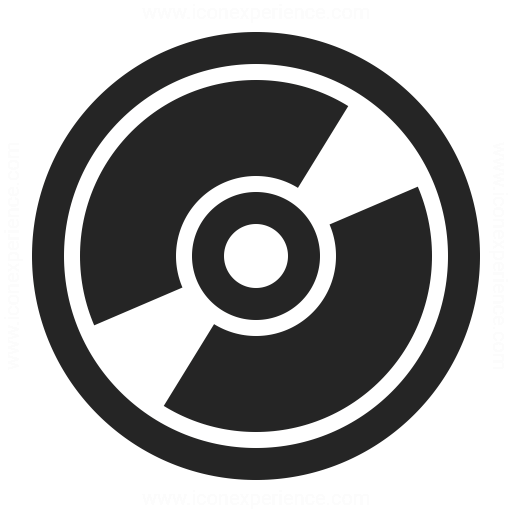
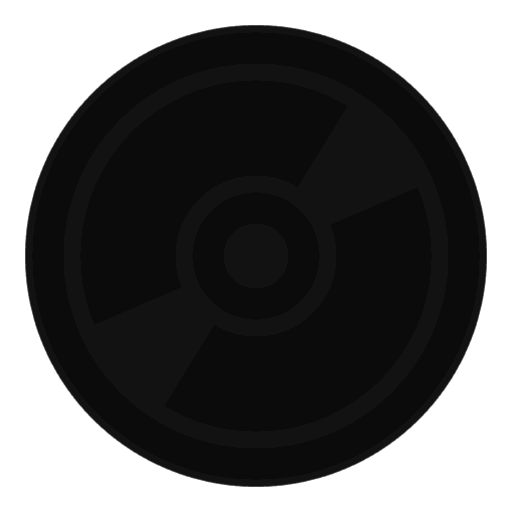
add: window can be dragged fix: improved unknown album image

diff --git a/src/main/java/com/smnprn/simpleaudioplayer/Controller.java b/src/main/java/com/smnprn/simpleaudioplayer/Controller.java
@@ -50,6 +50,7 @@ public class Controller {
         setButtonIcon(playButton, "playbutton.png");
         setButtonIcon(newSongButton, "plus.png");
         setFonts();
+        setAlbumCover(null);
     }
 
     @FXML
@@ -65,23 +66,27 @@ public class Controller {
 
     @FXML
     protected void onPlayButtonClick() {
-        song = new Song(
-                audioFile.getMetadata().get("title").toString(),
-                audioFile.getMetadata().get("artist").toString(),
-                (Image) audioFile.getMetadata().get("image"),
-                audioFile.getDuration()
-        );
+        try {
+            song = new Song(
+                    audioFile.getMetadata().get("title").toString(),
+                    audioFile.getMetadata().get("artist").toString(),
+                    (Image) audioFile.getMetadata().get("image"),
+                    audioFile.getDuration()
+            );
 
-        titleLabel.setText(song.getTitle());
-        artistLabel.setText(song.getArtist());
-        setAlbumCover(song.getCovertArt());
-        setTimeLabels();
-        setProgressBar();
+            titleLabel.setText(song.getTitle());
+            artistLabel.setText(song.getArtist());
+            setAlbumCover(song.getCovertArt());
+            setTimeLabels();
+            setProgressBar();
 
-        if (playing) {
-            stopPlaying();
-        } else {
-            startPlaying();
+            if (playing) {
+                stopPlaying();
+            } else {
+                startPlaying();
+            }
+        } catch (NullPointerException e) {
+            System.out.println("No song selected");
         }
     }
 
@@ -137,7 +142,7 @@ public class Controller {
     }
 
     private void setAlbumCover(Image coverArt) {
-        Image unknownCover = new Image(getClass().getResourceAsStream("no-album.png"));
+        Image unknownCover = new Image(getClass().getResourceAsStream("img/no-album.png"));
 
         if (coverArt == null) {
             albumCover.setImage(unknownCover);

diff --git a/src/main/java/com/smnprn/simpleaudioplayer/Main.java b/src/main/java/com/smnprn/simpleaudioplayer/Main.java
@@ -1,19 +1,36 @@
 package com.smnprn.simpleaudioplayer;
 
 import javafx.application.Application;
+import javafx.event.EventHandler;
 import javafx.fxml.FXMLLoader;
 import javafx.scene.Scene;
+import javafx.scene.input.MouseEvent;
+import javafx.stage.Screen;
 import javafx.stage.Stage;
 import javafx.stage.StageStyle;
 
 import java.io.IOException;
 
 public class Main extends Application {
+    private double xOffset = 0;
+    private double yOffset = 0;
+
     @Override
     public void start(Stage stage) throws IOException {
         FXMLLoader fxmlLoader = new FXMLLoader(Main.class.getResource("view.fxml"));
         Scene scene = new Scene(fxmlLoader.load(), 650, 850);
         scene.getStylesheets().add(getClass().getResource("style.css").toExternalForm());
+
+        scene.setOnMousePressed(event -> {
+            xOffset = event.getSceneX();
+            yOffset = event.getSceneY();
+        });
+
+        scene.setOnMouseDragged(event -> {
+            stage.setX(event.getScreenX() - xOffset);
+            stage.setY(event.getScreenY() - yOffset);
+        });
+
         stage.setTitle("Simple Audio Player");
         stage.initStyle(StageStyle.UNDECORATED);
         stage.setScene(scene);

diff --git a/src/main/java/com/smnprn/simpleaudioplayer/utils/ScreenSize.java b/src/main/java/com/smnprn/simpleaudioplayer/utils/ScreenSize.java
@@ -1,0 +1,16 @@
+package com.smnprn.simpleaudioplayer.utils;
+
+import javafx.stage.Screen;
+
+public enum ScreenSize {
+
+    SCREEN_WIDTH(Screen.getPrimary().getBounds().getWidth()),
+    SCREEN_HEIGHT(Screen.getPrimary().getBounds().getHeight());
+
+    public final double length;
+
+    ScreenSize(double length) {
+        this.length = length;
+    }
+
+}
